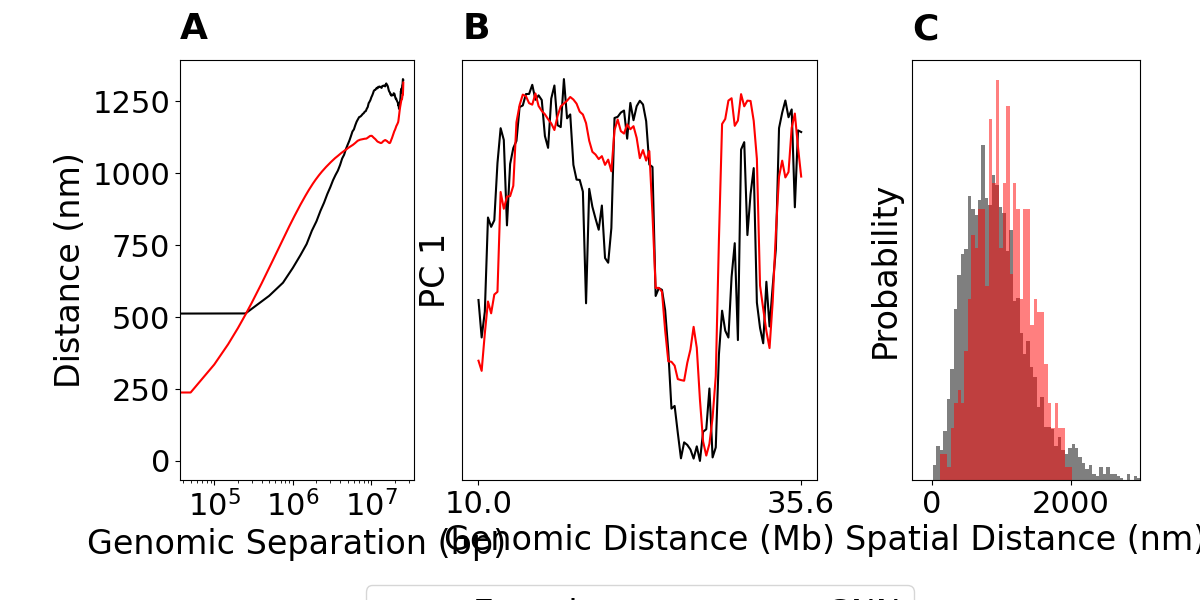
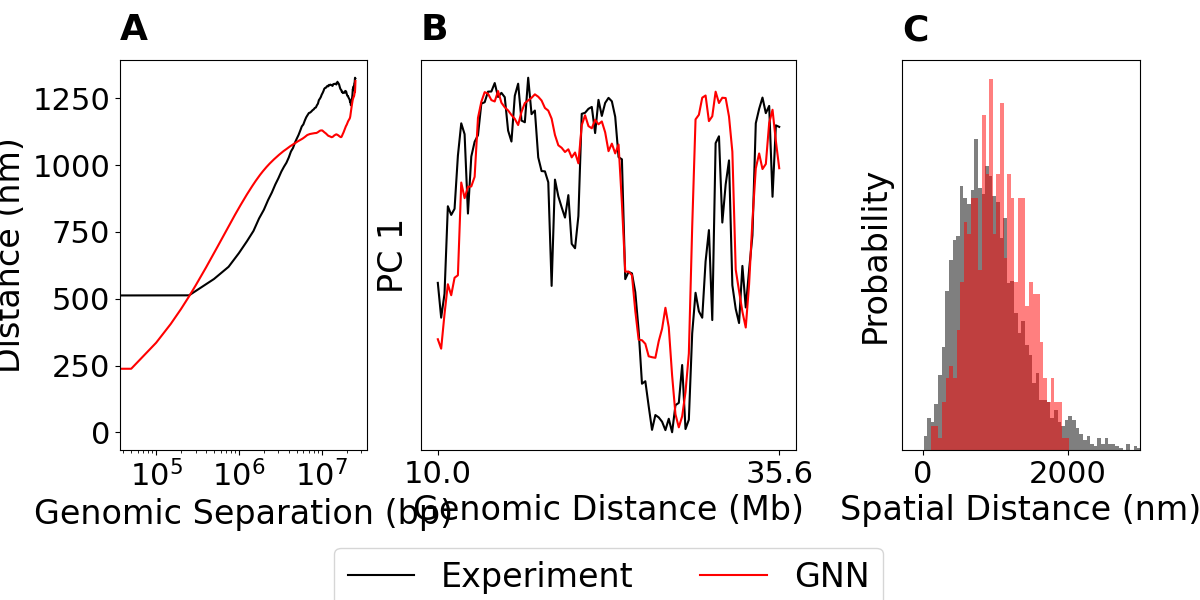
image

diff --git a/scripts/distances_Su2020/figures.py b/scripts/distances_Su2020/figures.py
@@ -394,8 +394,8 @@ def new_figure(sample, GNN_ID, bl=140, phi=0.03):
                 size=letter_fontsize, weight='bold')
 
 
-    plt.subplots_adjust(bottom=0.2, top = 0.9, left = 0.15, right = 0.95,
-                    hspace = 0.25, wspace = 0.25)
+    plt.subplots_adjust(bottom=0.25, top = 0.9, left = 0.1, right = 0.95,
+                    hspace = 0.25, wspace = 0.35)
     plt.tight_layout()
     plt.savefig('/home/erschultz/TICG-chromatin/figures/distances.png')
     plt.close()
